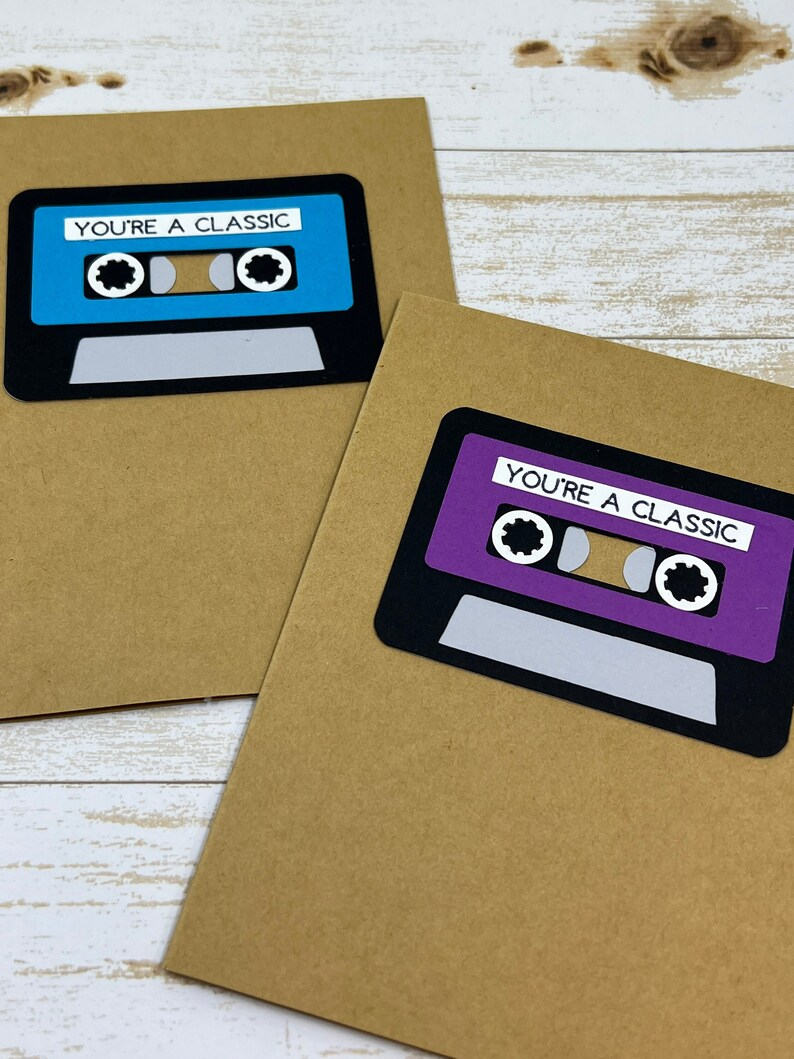
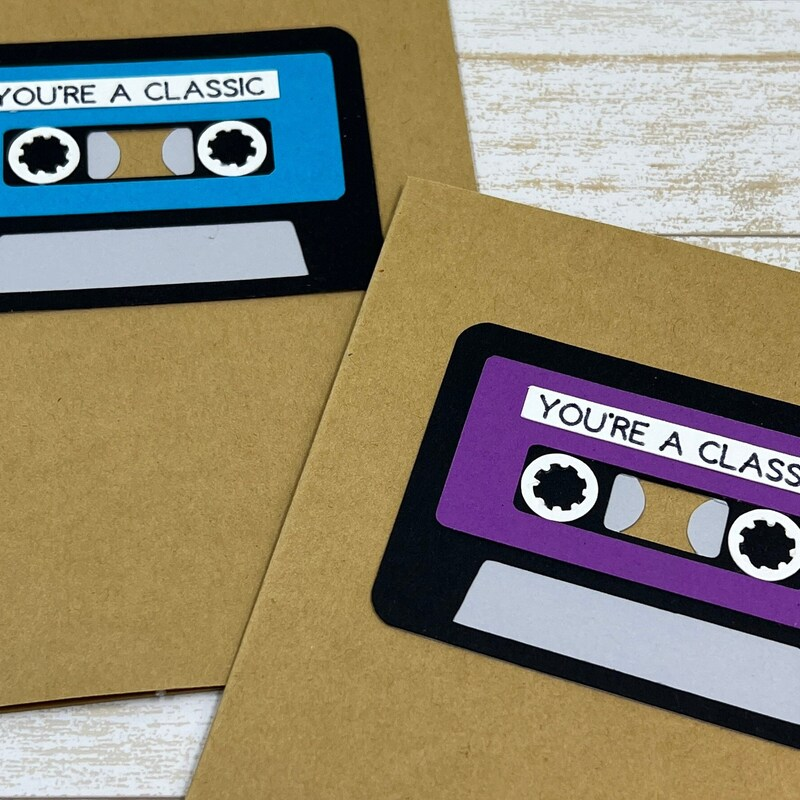
Add files via upload

diff --git a/site/product.html b/site/product.html
@@ -90,10 +90,15 @@
       <a href="shop.html" class="btn btn-primary">Browse all cards →</a></div>`;
   } else {
     document.title = p.name + " — Just a Love Note";
-    const art = coverArt(p);
     document.getElementById("pdp").innerHTML = `
       <div class="pdp">
-        <div class="gallery" style="background:${p.bg}">${art}</div>
+        <div class="gallery" id="gallery" style="background:${p.bg}">
+          <span class="art-emoji gallery-emoji">${p.emoji}</span>
+          <img class="art-photo gallery-photo" id="galleryPhoto" alt="${p.name.replace(/"/g,'&quot;')}" style="display:none">
+          <button class="gal-arrow gal-prev" id="galPrev" aria-label="Previous image" style="display:none">‹</button>
+          <button class="gal-arrow gal-next" id="galNext" aria-label="Next image" style="display:none">›</button>
+          <div class="gal-dots" id="galDots"></div>
+        </div>
         <div>
           <div class="crumbs"><a href="shop.html">Shop</a> › <a href="shop.html?cat=${p.category}">${cat?cat.label:''}</a> › ${p.name}</div>
           <h1>${p.name}</h1>
@@ -121,9 +126,55 @@
           </ul>`}
         </div>
       </div>`;
+    setupGallery(p);
   }
 
   function bump(d){ qty = Math.max(1, qty + d); document.getElementById("qtyVal").textContent = qty; }
+
+  // Build an image carousel: primary photo is img/<id>.jpg; extra angles are
+  // img/<id>-2.jpg, img/<id>-3.jpg, ... (up to -6). Whichever files exist become
+  // slides with left/right arrows + dots. If none exist, the emoji stays.
+  function setupGallery(p){
+    const candidates = [p.image || `img/${p.id}.jpg`];
+    for (let i = 2; i <= 6; i++) candidates.push(`img/${p.id}-${i}.jpg`);
+    const found = [];
+    let done = 0;
+    candidates.forEach((src, idx) => {
+      const im = new Image();
+      im.onload  = () => { found[idx] = src; if (++done === candidates.length) render(); };
+      im.onerror = () => { if (++done === candidates.length) render(); };
+      im.src = src;
+    });
+
+    function render(){
+      const imgs = found.filter(Boolean);       // keeps original order
+      if (imgs.length === 0) return;             // no photos yet — leave the emoji
+      const photo = document.getElementById("galleryPhoto");
+      const emoji = document.querySelector(".gallery-emoji");
+      const prev = document.getElementById("galPrev");
+      const next = document.getElementById("galNext");
+      const dots = document.getElementById("galDots");
+      let cur = 0;
+
+      emoji.style.display = "none";
+      photo.style.display = "";
+
+      const update = () => {
+        photo.src = imgs[cur];
+        dots.querySelectorAll(".gal-dot").forEach((d, i) => d.classList.toggle("active", i === cur));
+      };
+      const go = i => { cur = (i + imgs.length) % imgs.length; update(); };
+
+      if (imgs.length > 1) {
+        prev.style.display = ""; next.style.display = "";
+        prev.onclick = () => go(cur - 1);
+        next.onclick = () => go(cur + 1);
+        dots.innerHTML = imgs.map((_, i) => `<button class="gal-dot" data-i="${i}" aria-label="Image ${i+1}"></button>`).join("");
+        dots.querySelectorAll(".gal-dot").forEach(d => d.onclick = () => go(+d.dataset.i));
+      }
+      update();
+    }
+  }
 
   // related: same category, else random others
   if (p){

diff --git a/site/css/styles.css b/site/css/styles.css
@@ -165,6 +165,15 @@ footer li a:hover{color:#fff;opacity:1}
 /* keep the little badges above the photo */
 .card .tag,.card .fav{z-index:2}
 
+/* product gallery arrows + dots */
+.gal-arrow{position:absolute;top:50%;transform:translateY(-50%);z-index:3;width:42px;height:42px;border-radius:50%;border:none;background:rgba(255,255,255,.9);color:var(--ink);font-size:1.5rem;line-height:1;cursor:pointer;display:grid;place-items:center;box-shadow:0 2px 10px rgba(0,0,0,.18);transition:background .15s,transform .15s}
+.gal-arrow:hover{background:#fff;transform:translateY(-50%) scale(1.06)}
+.gal-prev{left:12px}
+.gal-next{right:12px}
+.gal-dots{position:absolute;bottom:14px;left:0;right:0;display:flex;gap:7px;justify-content:center;z-index:3}
+.gal-dot{width:9px;height:9px;border-radius:50%;border:none;background:rgba(255,255,255,.6);cursor:pointer;padding:0;box-shadow:0 1px 3px rgba(0,0,0,.2);transition:background .15s}
+.gal-dot.active{background:#fff}
+
 /* ===== cart drawer ===== */
 .cart-overlay{position:fixed;inset:0;background:rgba(74,64,54,.45);opacity:0;visibility:hidden;transition:opacity .25s;z-index:80}
 .cart-overlay.open{opacity:1;visibility:visible}

diff --git a/site/js/products.js b/site/js/products.js
@@ -32,7 +32,7 @@ const PRODUCTS = [
   { id:"monkey-bananas", name:"Funny Monkey Birthday — Go Bananas", priceCents:600, category:"birthday", emoji:"🐵", bg:"#efe7d6", tag:"New", rating:5.0, reviews:9, desc:"A cheeky monkey card to tell someone to go bananas on their big day. Blank inside." },
   { id:"cat-birthday", name:"Funny Cat Birthday — Kraft Silhouette", priceCents:600, category:"birthday", emoji:"🐱", bg:"#eee2cf", tag:"", rating:5.0, reviews:31, desc:"A black-cat silhouette on warm kraft cardstock. Understated, funny, purr-fect for cat people." },
   { id:"candles-birthday", name:"Hand-Drawn Birthday Candles Card", priceCents:600, category:"birthday", emoji:"🕯️", bg:"#f5e6df", tag:"", rating:5.0, reviews:7, desc:"Colorful hand-drawn candles for a cheerful happy-birthday message." },
-  { id:"flowerpot-birthday", name:"Hand-Drawn Flower Pot — Happy Birthday", priceCents:600, category:"birthday", emoji:"🪴", bg:"#eef0e6", tag:"", rating:5.0, reviews:6, desc:"A charming hand-drawn flower pot birthday card for any plant or flower lover." },
+  { id:"flowerpot-birthday", name:"Hand-Drawn Flower Pot — Happy Birthday", priceCents:600, category:"birthday", emoji:"🌷", bg:"#eef0e6", tag:"", rating:5.0, reviews:6, desc:"A charming hand-drawn flower pot birthday card for any plant or flower lover." },
   { id:"teacup-birthday", name:"Tea Cup Birthday Card — Floral Blooms", priceCents:800, category:"birthday", emoji:"🍵", bg:"#f0e4dc", tag:"", rating:5.0, reviews:8, desc:"A delicate teacup overflowing with floral blooms. Sweet for the tea lover's birthday." },
   { id:"dog-birthday", name:"Funny Dog Birthday — Pawfect Day", priceCents:600, category:"birthday", emoji:"🐶", bg:"#f3e2d6", tag:"", rating:5.0, reviews:12, desc:"Wish them a pawfect day with this dog-lover birthday card." },
   { id:"pawty-birthday", name:"Pawty Time Birthday Card", priceCents:600, category:"birthday", emoji:"🐾", bg:"#f5e6df", tag:"", rating:5.0, reviews:5, desc:"A hand-drawn pet-celebration card — it's pawty time!" },
@@ -78,7 +78,7 @@ const PRODUCTS = [
 
   /* ---------------- MOM & DAD ---------------- */
   { id:"sunflower-mom", name:"Sunflower Mother's Day — Paper Cut", priceCents:600, category:"parents", emoji:"🌻", bg:"#f0e4dc", tag:"", rating:5.0, reviews:14, desc:"A layered paper-cut sunflower card for Mom. Bright and cheerful." },
-  { id:"flowerpot-mom", name:"Hand-Drawn Flower Pot — Mother's Day", priceCents:600, category:"parents", emoji:"🪴", bg:"#eef0e6", tag:"", rating:5.0, reviews:6, desc:"A charming hand-drawn flower pot card for Mom or any flower lover." },
+  { id:"flowerpot-mom", name:"Hand-Drawn Flower Pot — Mother's Day", priceCents:600, category:"parents", emoji:"🌷", bg:"#eef0e6", tag:"", rating:5.0, reviews:6, desc:"A charming hand-drawn flower pot card for Mom or any flower lover." },
   { id:"elephant-mom", name:"Elephant Mother's Day Card", priceCents:600, category:"parents", emoji:"🐘", bg:"#eef0e6", tag:"", rating:5.0, reviews:7, desc:"An elephant card for Mother's Day, a new mom, or a baby shower." },
   { id:"coffee-cup-mom", name:"Floral Coffee Cup — Mother's Day Gift Card Holder", priceCents:600, category:"parents", emoji:"☕", bg:"#f6e7e3", tag:"", rating:5.0, reviews:8, desc:"A handmade floral coffee-cup gift-card holder for Mom." },
   { id:"watering-can", name:"Watering Can Flower Card", priceCents:700, category:"parents", emoji:"🌼", bg:"#eef0e6", tag:"", rating:5.0, reviews:10, desc:"A handmade watering-can flower card for Mother's Day or a birthday." },

diff --git a/README.md b/README.md
@@ -119,6 +119,10 @@ a time, in any order:
 
 The full list of exact filenames for every card is in `site/img/README.txt`.
 
+**Multiple photos per card:** the product page shows an image gallery with
+left/right arrows. The main photo is `<id>.jpg`; add extra angles as
+`<id>-2.jpg`, `<id>-3.jpg`, … (up to `-6`) and they become slides automatically.
+
 ---
 
 ## Things you can change easily